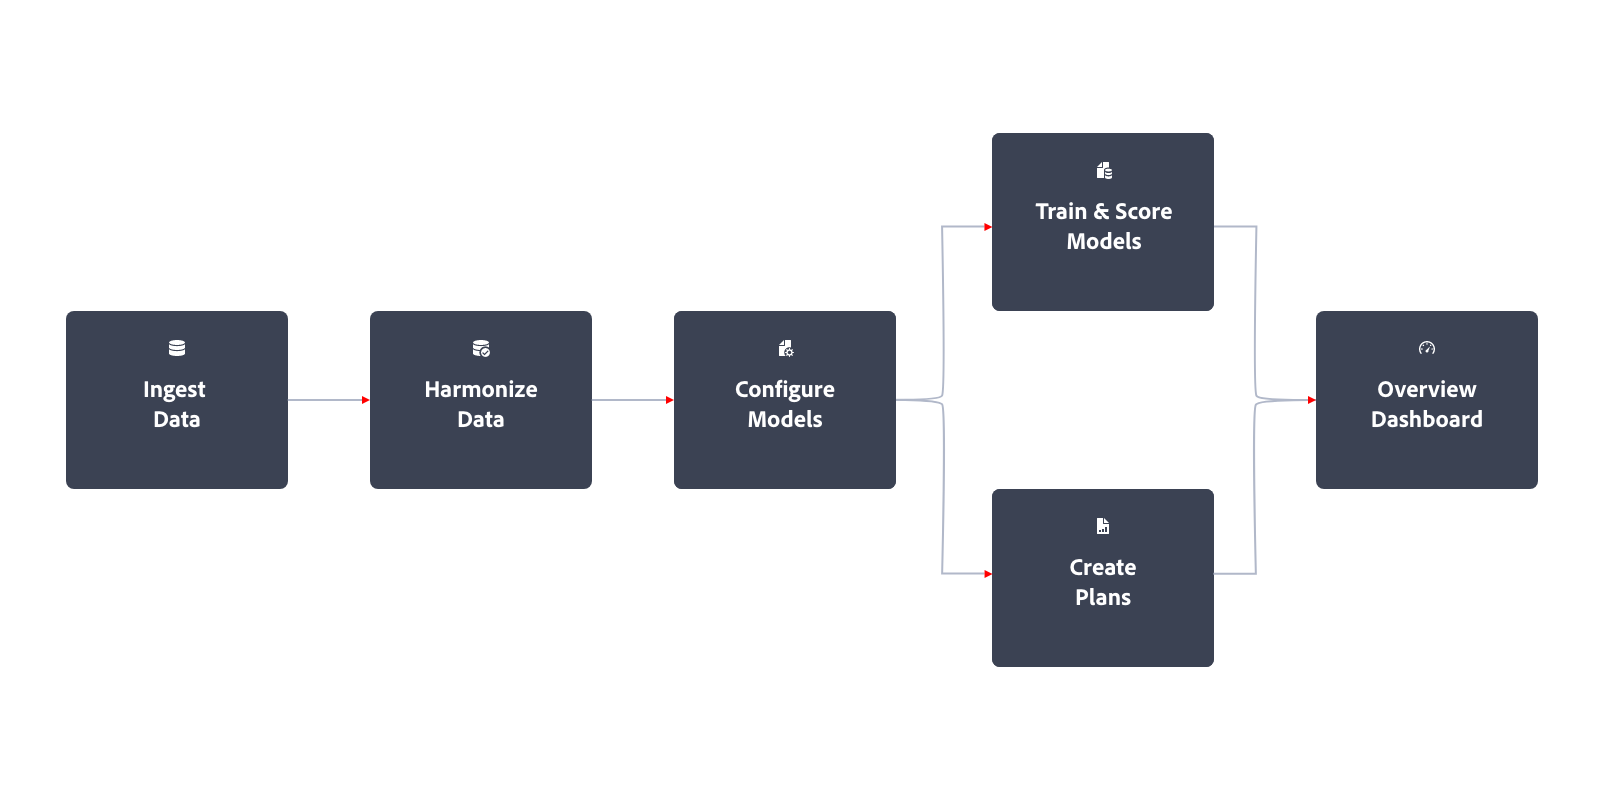
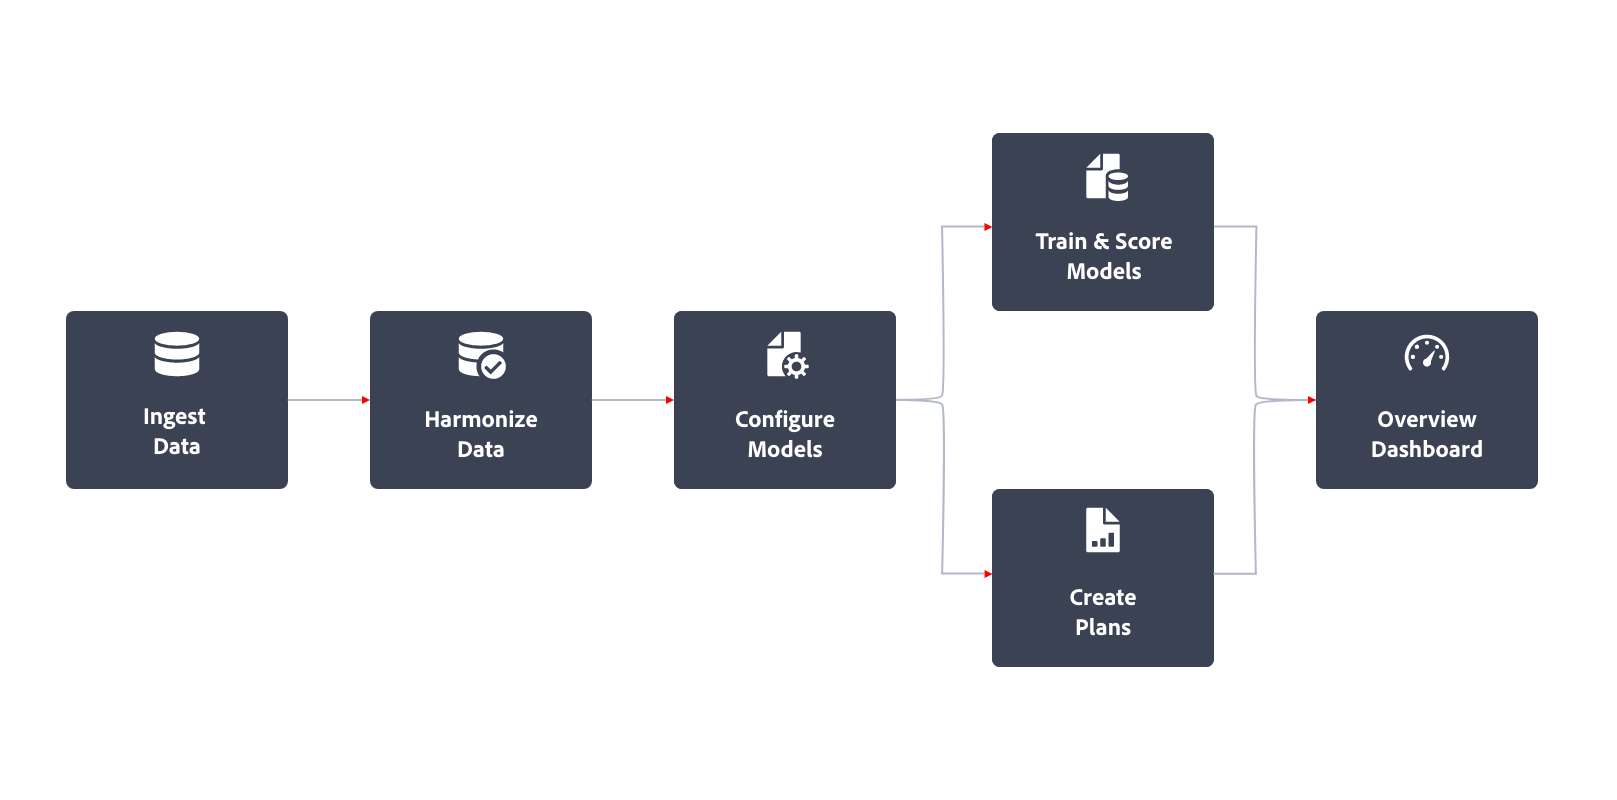
More structure

diff --git a/help/get-started/workflow.md b/help/get-started/workflow.md
@@ -9,14 +9,14 @@ A typical workflow in Adobe Mix Modeler looks like:
 
 ![Alt text](../assets/ApplicationWorkflow.svg)
 
-| Activity | Description |
-|---|---|
-| Ingest data | Ingest event data from Adobe Experience Platform (for example Adobe Analytics, Web SDK, other sources), aggregated data from walled gardens (for example Facebook, Youtube, others), and external factors data from customers (for example price changes in subscription service). |
-| Harmonize data | Configure mapping rules and conflict resolution rules to define harmonized data as the based for the solution. |
-| Configure models | Configure model instance with touchpoints and conversion definitions. |
-| Train and score models | Create aggregate and event level scores using machine-learing training and scoring.  |
-| Create plans |  Create future plans with your budget inputs and based on your trained and scored models. |
-| Overview dashboard | Get insights on harmonized data, models and plans, using a variety of configurable widgets. |
+|  | Activity | Description |
+|---|---|---|
+| ![Data](../assets/icons/Data.svg) &nbsp; | Ingest data | Ingest event data from Adobe Experience Platform (for example Adobe Analytics, Web SDK, other sources), aggregated data from walled gardens (for example Facebook, Youtube, others), and external factors data from customers (for example price changes in subscription service). |
+| ![DataCheck](../assets/icons/DataCheck.svg) &nbsp; | Harmonize data | Configure mapping rules and conflict resolution rules to define harmonized data as the based for the solution. |
+|  ![FileConfig](../assets/icons/FileGear.svg) &nbsp; | Configure models | Configure model instance with touchpoints and conversion definitions. |
+| ![FileData](../assets/icons/FileData.svg) &nbsp;  | Train and score models | Create aggregate and event level scores using machine-learing training and scoring.  |
+| ![FileChart](../assets/icons/FileChart.svg) &nbsp; | Create plans |  Create future plans with your budget inputs and based on your trained and scored models. |
+| ![Dashboard](../assets/icons/Dashboard.svg) &nbsp; | Overview dashboard | Get insights on harmonized data, models and plans, using a variety of configurable widgets. |
 
 {style="table-layout:auto"}
 

diff --git a/help/TOC.md b/help/TOC.md
@@ -13,12 +13,18 @@ user-guide-description: Learn how to use Mixed Modeler.
   + [Application workflow](get-started/workflow.md)
 
 
++ [Overview dashboard](overview-dashboard.md)
++ [Plans](plans.md)
++ [Models](models.md)
++ [Harmonize data](harmonize-data.md)
++ [Ingest data](ingest-data.md)
+
 + [Use cases](use-cases.md)
 
 + Releases {#releaes}
   + [Latest release](releases/latest.md)
   + [2023 releases](releases/2023.md)
-  + [Release proces](releases/releases.md)
+  + [Release process](releases/releases.md)
 
 + [Glossary](glossary.md)
 

diff --git a/help/overview-dashboard.md b/help/overview-dashboard.md
@@ -1,0 +1,7 @@
+---
+title: Overview dashboard
+description: Learn how to use dashboard overview in Adsobe Mix Modeler.
+---
+
+# Overview dashboard
+

diff --git a/help/models.md b/help/models.md
@@ -1,0 +1,7 @@
+---
+title: Models
+description: Learn how to configure and use models in Adobe Mix Modeler.
+---
+
+# Ingest data
+

diff --git a/help/harmonize-data.md b/help/harmonize-data.md
@@ -1,0 +1,6 @@
+---
+title: Harmonize data
+description: Learn how to harmonize data in Adobe Mix Modeler.
+---
+
+# Harmonize data
